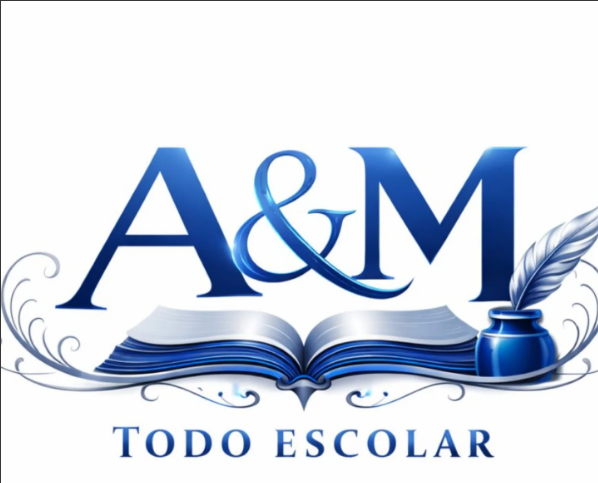
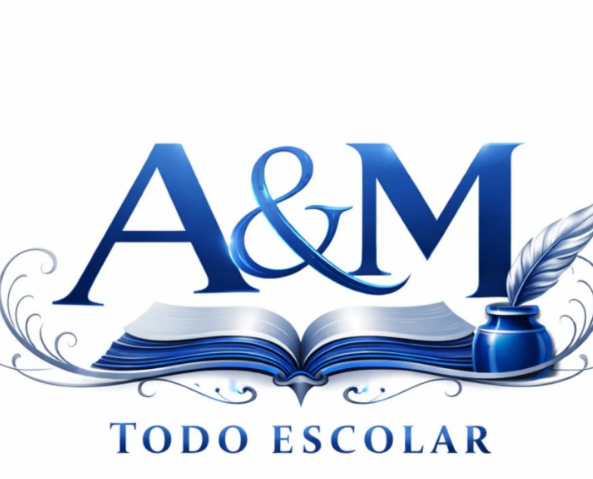
docs: corrección de imagen

diff --git a/README.md b/README.md
@@ -1,5 +1,6 @@
-![AYM](aym.png)
-# A&M Todo escolar
+<p align="center">
+  <img src="aym.png" width="300">
+</p># A&M Todo escolar
 **Papelería- librería y bazar**
 
 **👩💼 Nombre:** Fernanda Urrutia y Gabriela
@@ -20,4 +21,4 @@
 ## ⚠️Prioridades
 - [ ] Base de datos
 - [ ] Categorizar (de forma general)
-- [ ] 
+